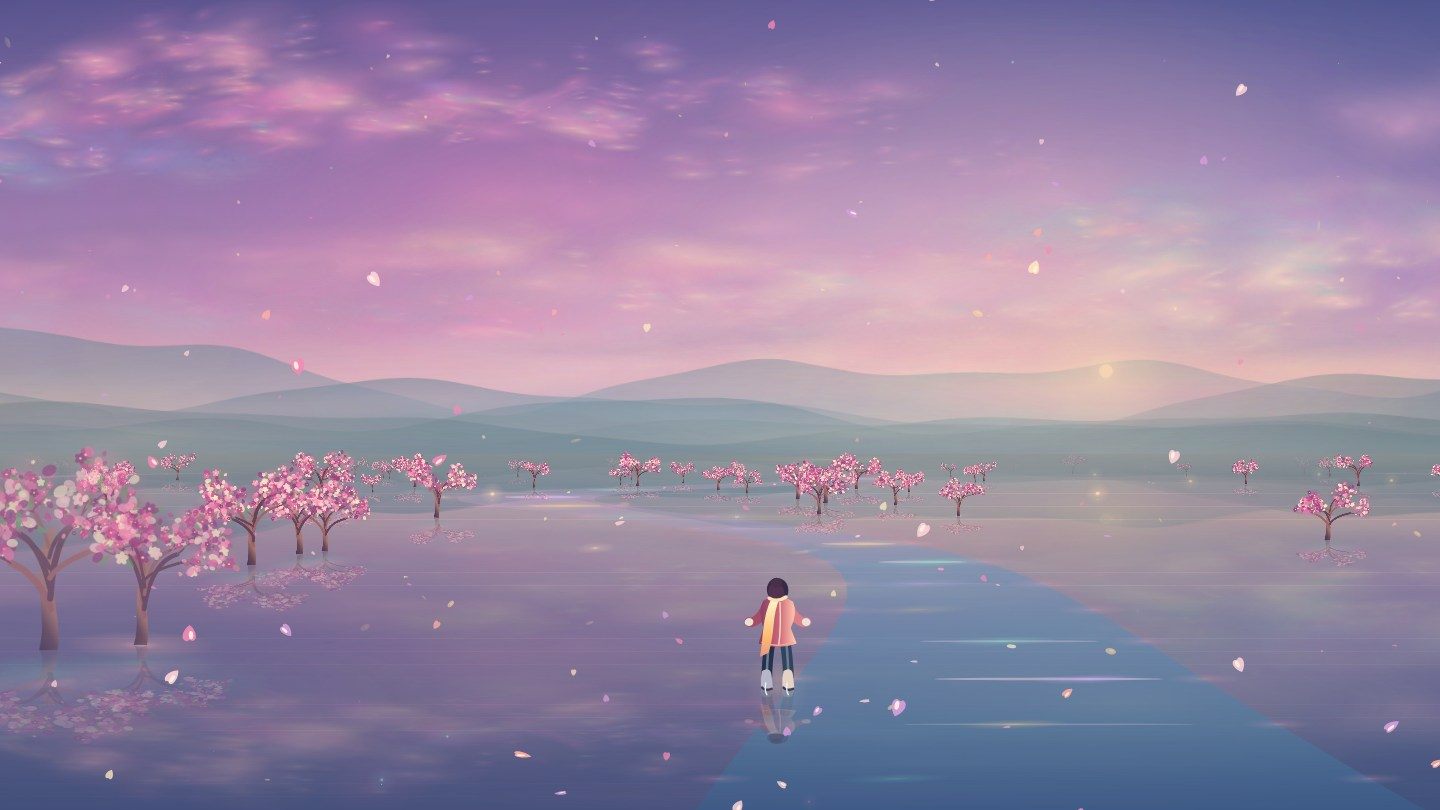
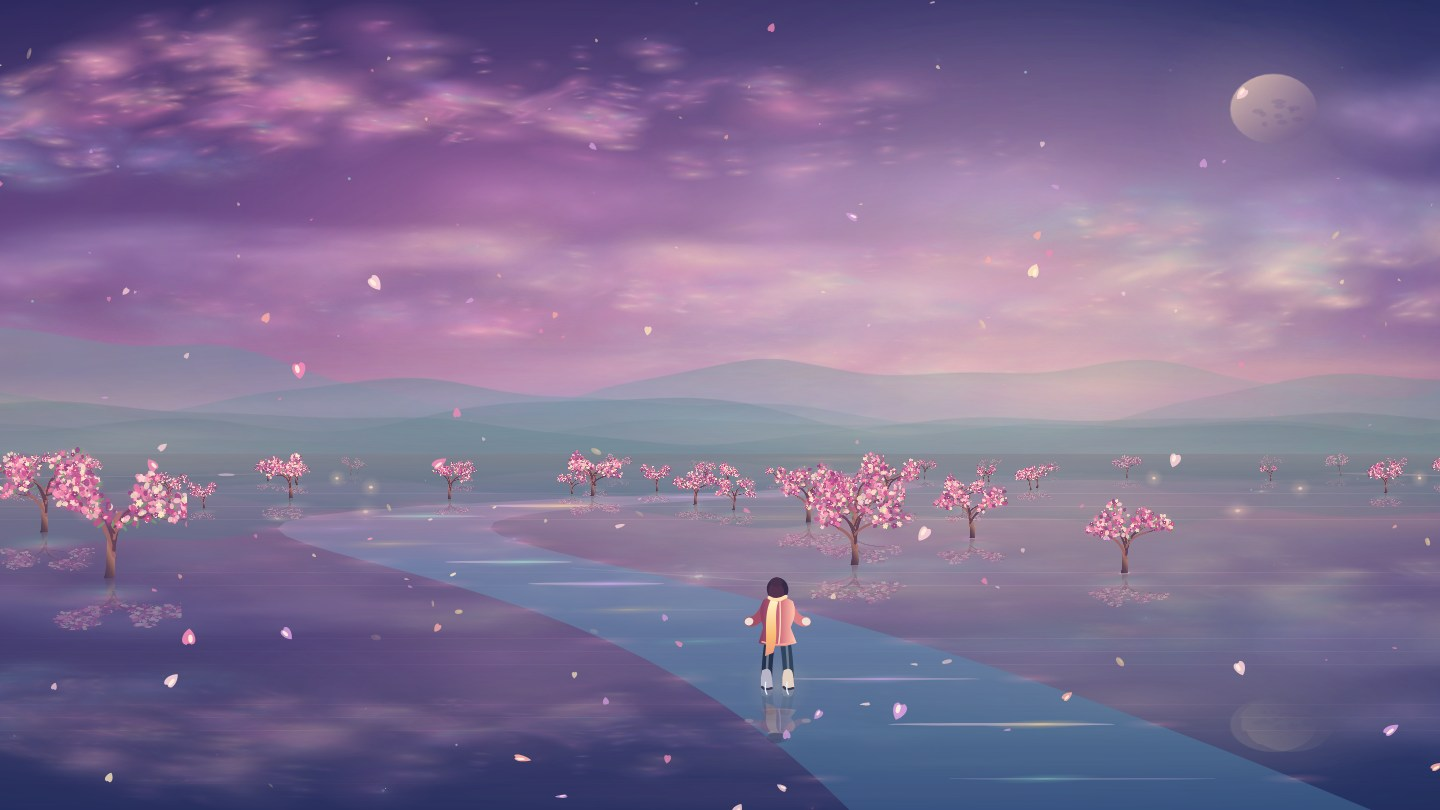
Add Red Cliff, Li Bai night feast and Book of Songs verses

diff --git a/index.html b/index.html
@@ -172,6 +172,7 @@ body.clean:not(.playing) .hud .intro{visibility:visible}
       <button class="chip" type="button" data-word="桃源深处">桃源深处</button>
       <button class="chip" type="button" data-word="归园田居">归园田居</button>
       <button class="chip" type="button" data-word="不系之舟">不系之舟</button>
+      <button class="chip" type="button" data-word="赤壁赋">赤壁赋</button>
       <button class="chip" type="button" data-word="晚霞">晚霞</button>
       <button class="chip" type="button" data-word="极光">极光</button>
       <button class="chip" type="button" data-word="花海">花海</button>
@@ -250,6 +251,10 @@ function dreamFor(word) {
   const base = palettes[i];
   return {...base,index:i,seed:n%4096+1,word, name:["晚霞","极光","花海","星雨"].includes(word)?base.name:word, whale:/鲸|whale/i.test(word)};
 }
+const peachFeastSource="李白《春夜宴从弟桃花园序》";
+const redCliffSource="苏轼《前赤壁赋》";
+const peachNight={weather:"春夜 · 花月",sky:[30,35,86],mid:[92,69,129],
+  line:[185,125,157],cloud:[202,151,198],water:[30,49,93],light:[255,215,185],peachNight:true};
 const chapters = [
   {at:0, name:"海棠渡", icon:"✿", weather:"晨光 · 花瓣", index:0, seed:45,
     lines:[
@@ -262,6 +267,7 @@ const chapters = [
     lines:[
       [0,"起雾了。看不清远处，\n就先看看脚边这点光。"],
       [105,"白鸟贴着雾飞。\n翅尖一低，冰里便亮了一小片。"],
+      [180,"蒹葭苍苍，白露为霜。\n所谓伊人，在水一方。","《诗经·秦风·蒹葭》",null,"reeds"],
       [255,"气蒸云梦泽，\n波撼岳阳城。","孟浩然《望洞庭湖赠张丞相》"],
       [410,"鸟向远处飞去。\n雾的另一边，有什么缓缓吐出一口气。"],
       [540,"冰下，有影。"]
@@ -319,11 +325,20 @@ const chapters = [
     lines:[
       [24,"转过山脚，溪上漂来一瓣桃花。"],
       [190,"忽逢桃花林，\n夹岸数百步。","陶渊明《桃花源记》"],
+      [270,"桃之夭夭，\n灼灼其华。","《诗经·周南·桃夭》",null,"peach-ode"],
       [360,"花影落进溪里，水把它轻轻带远了。"],
       [530,"如果今天可以在这里坐一会儿，\n你会选哪棵树？"],
-      [714,"芳草鲜美，\n落英缤纷。","陶渊明《桃花源记》","petalShower"]
+      [714,"芳草鲜美，\n落英缤纷。","陶渊明《桃花源记》","petalShower"],
+      [850,"夫天地者，万物之逆旅也；\n光阴者，百代之过客也。",peachFeastSource,"peachNight","feast-1"],
+      [965,"而浮生若梦，为欢几何？\n古人秉烛夜游，良有以也。",peachFeastSource,null,"feast-2"],
+      [1080,"况阳春召我以烟景，\n大块假我以文章。",peachFeastSource,null,"feast-3"],
+      [1195,"会桃花之芳园，\n序天伦之乐事。",peachFeastSource,null,"feast-4"],
+      [1310,"群季俊秀，皆为惠连；\n吾人咏歌，独惭康乐。",peachFeastSource,null,"feast-5"],
+      [1425,"幽赏未已，\n高谈转清。",peachFeastSource,null,"feast-6"],
+      [1540,"开琼筵以坐花，\n飞羽觞而醉月。",peachFeastSource,"petalShower","feast-7"],
+      [1655,"不有佳咏，何伸雅怀？\n如诗不成，罚依金谷酒数。",peachFeastSource,null,"feast-8"]
     ]},
-  {at:6080,name:"归园田居",icon:"❧",weather:"田风 · 炊烟",index:0,seed:1261,painting:8,farmland:true,
+  {at:7040,name:"归园田居",icon:"❧",weather:"田风 · 炊烟",index:0,seed:1261,painting:8,farmland:true,
     sky:[93,135,166],mid:[182,191,169],line:[255,215,151],cloud:[246,218,170],shadow:[112,139,159],hills:[108,149,117],water:[49,81,77],light:[255,229,167],
     lines:[
       [25,"沿着溪边再走一程，\n便看见了田和几户人家。"],
@@ -331,9 +346,10 @@ const chapters = [
       [322,"种豆南山下，\n草盛豆苗稀。","陶渊明《归园田居·其三》"],
       [491,"风从豆畦吹来。\n今天，想在什么地方坐到天晚？"],
       [700,"采菊东篱下，\n悠然见南山。","陶渊明《饮酒·其五》"],
+      [774,"昔我往矣，杨柳依依。\n今我来思，雨雪霏霏。","《诗经·小雅·采薇》",null,"returning"],
       [848,"屋顶的烟慢慢淡了，山还在原处。"]
     ]},
-  {at:7100,name:"不系之舟",icon:"☾",weather:"夜江 · 孤灯",index:3,seed:1559,painting:9,river:true,
+  {at:8060,name:"不系之舟",icon:"☾",weather:"夜江 · 孤灯",index:3,seed:1559,painting:9,river:true,
     sky:[22,30,66],mid:[63,73,118],line:[140,119,153],cloud:[158,154,193],shadow:[48,56,104],hills:[49,64,104],water:[24,39,71],light:[218,214,242],
     lines:[
       [25,"黄州。夜深了，岸上只剩一盏灯。"],
@@ -344,6 +360,16 @@ const chapters = [
       [700,"儋州。海风比江风更咸，\n远处那盏灯，摇得快要看不见。"],
       [880,"人生如逆旅，\n我亦是行人。","苏轼《临江仙·送钱穆父》"],
       [1065,"天快亮了。那条船还在远处，\n与你隔着一片安静的水。"]
+    ]},
+  {at:9260,name:"赤壁赋",icon:"☾",weather:"清风 · 明月",index:3,seed:1783,painting:10,river:true,redCliff:true,
+    sky:[16,36,62],mid:[48,102,121],line:[153,186,175],cloud:[181,213,205],shadow:[45,75,112],hills:[53,93,104],water:[19,55,77],light:[224,239,211],
+    lines:[
+      [25,"清风徐来，\n水波不兴。",redCliffSource],
+      [165,"白露横江，\n水光接天。",redCliffSource],
+      [315,"惟江上之清风，\n与山间之明月。",redCliffSource],
+      [470,"耳得之而为声，\n目遇之而成色。",redCliffSource],
+      [630,"取之无禁，\n用之不竭。",redCliffSource],
+      [800,"是造物者之无尽藏也，\n而吾与子之所共适。",redCliffSource]
     ]}
 ];
 const original = {...palettes[0],...chapters[0],word:"",whale:false};
@@ -356,6 +382,7 @@ const jadeChapter=chapters.findIndex(chapter=>chapter.jade);
 const groveChapter=chapters.findIndex(chapter=>chapter.grove);
 const farmChapter=chapters.findIndex(chapter=>chapter.farmland);
 const riverChapter=chapters.findIndex(chapter=>chapter.river);
+const redCliffChapter=chapters.findIndex(chapter=>chapter.redCliff);
 const flightVerse=chapters[cloudChapter].lines.findIndex(line=>line[3]==="flight");
 const journal = new Map();
 const snapshots = [];
@@ -422,8 +449,10 @@ function trimJournalPhotos() {
 }
 const viewingDialog = () => ["dreamDialog","helpDialog","journalDialog"].some(id=>$(id).open);
 function storyLine(chapter, lineIndex) {
-  const [,text,source,gesture]=chapter.lines[lineIndex];
-  const key = chapter.name+"-"+lineIndex;
+  const [,text,source,gesture,id]=chapter.lines[lineIndex];
+  // New cues use explicit IDs so older entries retain their stored keys.
+  const originalIndex=chapter.lines.slice(0,lineIndex).filter(line=>!line[4]).length;
+  const key=chapter.name+"-"+(id??originalIndex);
   if (!journal.has(key)) {
     const entry = {name:chapter.name,text,source};
     journal.set(key, entry);
@@ -440,6 +469,7 @@ function storyLine(chapter, lineIndex) {
   $("story").classList.add("show");
   if(gesture==="wave") waveUntil=t+2.8;
   if(gesture==="petalShower") petalShowerAt=storyTime;
+  if(gesture==="peachNight")changeDream({...current,...peachNight});
   if(gesture==="flight"){
     clearTimeout(whisperTimer);
     $("whisper").classList.remove("show");
@@ -482,6 +512,9 @@ let dreamTheme=null; // the dream the player picked; null while the story sets t
 const colorKeys=["sky","mid","line","cloud","shadow","hills","water","light"];
 function sceneForChapter(chapter) {
   const scene={...palettes[chapter.index],...chapter,word:"",whale:false};
+  if(chapter.grove&&chapterIndex===groveChapter&&chapter.lines.slice(0,nextLine).some(line=>line[3]==="peachNight")){
+    Object.assign(scene,peachNight);
+  }
   if(!dreamTheme) return scene;
   for(const key of colorKeys) scene[key]=blend(scene[key],dreamTheme[key],.62);
   scene.name=dreamTheme.name;scene.icon=dreamTheme.icon;scene.weather=dreamTheme.weather;
@@ -580,6 +613,11 @@ function setWord(word){
   $("dreamDialog").close();
   play();
   const phrase=word.trim();
+  if(/赤壁|水光接天|无尽藏/.test(phrase)){
+    dreamTheme=null;
+    enterChapter(redCliffChapter,true);
+    return;
+  }
   if(/不系|苏轼|东坡|黄州|惠州|儋州|逆旅/.test(phrase)){
     dreamTheme=null;
     enterChapter(riverChapter,true);
@@ -756,6 +794,7 @@ function paintSky(p) {
     if(p.forest) paintForestHorizon(c,w,h,p);
     if(p.jade) paintJadeValley(c,w,h,p);
     if(p.farmland) paintFarmHorizon(c,w,h,p);
+    if(p.redCliff) paintRedCliffBank(c,w,h,p);
     for(let i=0;i<10;i++){
       const x=w*hash(i+320+p.seed), y=h*(.81+hash(i+621)*.20), r=w*(.12+hash(i+312)*.21);
       c.save();c.translate(x,y);c.scale(1,.10+hash(i+901)*.14);
@@ -764,6 +803,31 @@ function paintSky(p) {
   }
   paintAtmosphere(c,w,h,sceneAtmosphere(p));
   return b;
+}
+function paintRedCliffBank(c,w,h,p){
+  const span=w*.59;
+  for(let layer=0;layer<2;layer++){
+    const base=h*(.94+layer*.055), height=h*(.44-layer*.06);
+    c.beginPath();c.moveTo(0,h);c.lineTo(0,base-height*.79);
+    for(let i=0;i<=44;i++){
+      const u=i/44;
+      const relief=(1-u)**.79*(.77+.095*Math.sin(u*24+layer)+.048*Math.sin(u*71));
+      c.lineTo(span*u*(1-layer*.18),base-height*relief);
+    }
+    c.lineTo(span,h);c.closePath();
+    const rock=c.createLinearGradient(0,base-height,0,base);
+    rock.addColorStop(0,"#65516b");rock.addColorStop(.46,"#826573");
+    rock.addColorStop(1,rgba(p.hills,.84));
+    c.fillStyle=rock;c.fill();c.save();c.clip();
+    for(let i=0;i<75;i++){
+      const key=p.seed+i*59+layer*97;
+      const x=hash(key)*span, y=base-hash(key+7)*height;
+      const color=i%3===0?[187,135,124]:[53,62,86];
+      pigmentGlow(c,x,y,Math.min(w,h)*(.017+hash(key+13)*.073),.14,-.47,color,.17+hash(key+3)*.27);
+    }
+    c.restore();
+    pigmentGlow(c,span*.56,base,w*.46,.085,0,p.cloud,.29);
+  }
 }
 const pigments = [
   [[252,151,182],[255,209,145],[114,144,224],[184,118,216],[100,200,214],[255,235,188]],
@@ -775,7 +839,8 @@ const pigments = [
   [[117,222,189],[255,182,139],[93,155,201],[192,163,206],[113,206,207],[255,232,168]],
   [[253,132,177],[255,180,171],[134,141,218],[218,119,186],[114,198,188],[255,223,192]],
   [[179,198,124],[246,194,119],[119,163,175],[215,154,143],[143,185,126],[255,229,159]],
-  [[109,135,191],[164,159,208],[79,131,160],[192,129,157],[116,173,182],[242,178,117]]
+  [[109,135,191],[164,159,208],[79,131,160],[192,129,157],[116,173,182],[242,178,117]],
+  [[106,170,182],[175,211,201],[96,134,166],[168,139,164],[121,195,178],[235,224,178]]
 ];
 const skyLighting = [
   null,
@@ -787,7 +852,8 @@ const skyLighting = [
   {point:[.62,.72], veil:[.33,.40], tilt:-.21},
   {point:[.59,.67], veil:[.36,.40], tilt:-.16},
   {point:[.73,.69], veil:[.32,.44], tilt:-.12},
-  {point:[.74,.33], veil:[.42,.52], tilt:-.10}
+  {point:[.74,.33], veil:[.42,.52], tilt:-.10},
+  {point:[.75,.36], veil:[.38,.61], tilt:-.06}
 ];
 const atmospheres = [
   {focus:[.29,.66], tones:[[255,190,161],[226,152,208],[137,182,240]], veil:.32, drift:"petal"},
@@ -799,7 +865,8 @@ const atmospheres = [
   {focus:[.66,.55], tones:[[255,230,173],[137,218,184],[225,171,190]], veil:.48, drift:"glint"},
   {focus:[.57,.66], tones:[[255,215,154],[244,135,190],[154,199,213]], veil:.49, drift:"petal"},
   {focus:[.73,.64], tones:[[255,220,154],[162,202,138],[156,191,203]], veil:.38, drift:"glint"},
-  {focus:[.76,.30], tones:[[196,196,234],[122,158,191],[172,129,169]], veil:.47, drift:"mist"}
+  {focus:[.76,.30], tones:[[196,196,234],[122,158,191],[172,129,169]], veil:.47, drift:"mist"},
+  {focus:[.76,.35], tones:[[221,235,208],[109,193,184],[156,176,211]], veil:.56, drift:"mist"}
 ];
 function sceneAtmosphere(scene){
   return atmospheres[scene.painting ?? [0,2,3,4][scene.index]];
@@ -993,7 +1060,7 @@ function drawSky(light) {
   const oldTones=sceneAtmosphere(previous).tones, newTones=sceneAtmosphere(current).tones;
   const tint=blend(blend(oldTones[0],oldTones[2],skyTone),blend(newTones[0],newTones[2],skyTone),smooth(transition));
   pigmentGlow(sk,sw*(.52+.16*Math.sin(airMass*.64)),sh*.47,sw*.63,.41,-.18,tint,.17);
-  if(!current.forest&&((current.index===0 && !art.naturalWidth) || current.index===2)){
+  if(!current.forest&&!current.peachNight&&((current.index===0 && !art.naturalWidth) || current.index===2)){
     bloom(sk,lx,ly,sh*.15,light,.53*transition);
     ellipse(sk,lx,ly,sh*.015,sh*.015,rgba(light,.58*transition));
   }
@@ -1187,7 +1254,7 @@ function skyDetail(c,w,h,p){
     }
 
   }
-  if(cold&&!p.jade){
+  if((cold&&!p.jade)||p.peachNight){
     const mx=w*.81,my=h*.24,r=h*.077;
     bloom(c,mx,my,r*2.9,p.light,.27);
     const moon=c.createLinearGradient(mx-r,my-r,mx+r,my+r);
@@ -1433,7 +1500,9 @@ function drawRouteScenery(light,water,world){
   if(jade>0) drawJadeBanks(jade,world);
   if(grove>0) drawPeachGrove(grove,world);
   if(farm>0) drawFarmland(farm,world);
-  if(river>0) drawRiver(river,world);
+  const cliff=lerp(Number(Boolean(previous.redCliff)),Number(Boolean(current.redCliff)),mix);
+  if(river>cliff) drawRiver(river-cliff,world);
+  if(cliff>0) drawRedCliff(cliff,world);
   if(forest+jade+grove+farm+river>=1) return;
   ctx.save();ctx.globalAlpha=1-forest-jade-grove-farm-river;
   const shadow=routeMode?smooth((travel-665)/265)*(1-smooth((travel-980)/440)):0;
@@ -1444,8 +1513,18 @@ function drawRouteScenery(light,water,world){
   }
   const cloudSea=routeMode?smooth((travel-1430)/520)*(1-smooth((travel-2310)/600)):0;
   const petals=routeMode?1-smooth((travel-280)/530):.42;
+  const reedBank=routeMode?smooth((travel-448)/96)*(1-smooth((travel-840)/230)):0;
   for(const {object:{kind:i,seed:key},depth:z,point:p} of world){
     const s=p.scale, alpha=smooth((z-63)/65)*smooth((1240-z)/490);
+    if(reedBank>0&&i===5){
+      for(let stem=0;stem<5;stem++){
+        const x=p.x+(hash(key+stem*7)-.5)*31*s, height=(17+hash(key+stem*3+17)*49)*s;
+        const bend=(reduced?3:5+Math.sin(t*.87+key+stem)*4)*s;
+        ctx.beginPath();ctx.moveTo(x,p.y);ctx.quadraticCurveTo(x,p.y-height*.63,x+bend,p.y-height);
+        ctx.lineWidth=Math.max(.6,s*1.7);ctx.strokeStyle=rgba([99,134,133],reedBank*alpha*.79);ctx.stroke();
+        ellipse(ctx,x+bend,p.y-height,2.6*s,7.2*s,rgba([219,209,194],reedBank*alpha*.89),.26);
+      }
+    }
     if(i<2){
       const width=(49+hash(key+7)*133)*s, tall=(29+hash(key+9)*97)*s;
       ctx.save();ctx.translate(p.x,p.y);ctx.globalAlpha*=alpha*(1-cloudSea*.88);
@@ -1471,6 +1550,30 @@ function drawRouteScenery(light,water,world){
     }
   }
   ctx.restore();
+}
+function drawRedCliff(opacity,world){
+  const moonlight=[222,239,215];
+  const clock=reduced?0:t;
+  for(let i=0;i<36;i++){
+    const u=(i+.5)/36, y=horizon+(H-horizon)*u;
+    const x=W*(.81+Math.sin(clock*.58+i*.68)*(.007+u*.043));
+    pigmentGlow(ctx,x,y,W*(.012+u*.091),.10,0,moonlight,opacity*(.23-u*.095));
+  }
+  for(const {object:{kind,seed,x},depth:z,point:p} of world){
+    if(kind!==0||Math.abs(x-lateral*.61)<65)continue;
+    const alpha=opacity*smooth((z-63)/100)*smooth((1240-z)/620);
+    const width=(42+hash(seed+27)*99)*p.scale, height=(27+hash(seed+31)*105)*p.scale;
+    if(p.x+width<0||p.x-width>W)continue;
+    const rock=ctx.createLinearGradient(p.x,p.y-height,p.x,p.y);
+    rock.addColorStop(0,rgba([156,124,123],alpha*.80));
+    rock.addColorStop(.52,rgba([106,87,106],alpha*.88));
+    rock.addColorStop(1,rgba([37,63,86],alpha*.84));
+    ctx.fillStyle=rock;ctx.beginPath();ctx.moveTo(p.x-width,p.y);
+    ctx.lineTo(p.x-width*.63,p.y-height*.47);ctx.lineTo(p.x-width*.44,p.y-height*.89);
+    ctx.lineTo(p.x+width*.04,p.y-height);ctx.lineTo(p.x+width*.32,p.y-height*.72);
+    ctx.lineTo(p.x+width,p.y);ctx.closePath();ctx.fill();
+    pigmentGlow(ctx,p.x,p.y+height*.16,width,.16,0,[156,128,135],alpha*.31);
+  }
 }
 const riverLamp=[255,188,114];
 function riverBoat(x,y,size,opacity,lantern,reflection=false,bearing=0){
@@ -2293,7 +2396,8 @@ const scores = [
   {chord:[50,57,64,69], melody:[74,76,null,81,null,78,76,74,null,69], beat:1.65, wind:510, voice:"sine"},
   {chord:[53,60,67,69], melody:[72,77,null,81,79,null,77,74,null,72], beat:1.57, wind:620, voice:"sine"},
   {chord:[48,55,64,69], melody:[67,72,null,76,74,null,72,69,67,null], beat:1.79, wind:460, voice:"triangle"},
-  {chord:[43,50,58,62], melody:[67,null,null,74,null,70,null,null,65,null], beat:2.24, wind:350, voice:"sine"}
+  {chord:[43,50,58,62], melody:[67,null,null,74,null,70,null,null,65,null], beat:2.24, wind:350, voice:"sine"},
+  {chord:[45,52,57,64], melody:[69,null,76,null,74,72,null,67,null,69], beat:2.07, wind:400, voice:"sine"}
 ];
 const frequencyFor = midi => 440*Math.pow(2,(midi-69)/12);
 function scoreFor(scene){

diff --git a/README.md b/README.md
@@ -2,13 +2,13 @@
 
 一朵海棠逆着风，在你的冰刀前打了个旋。你跟着它滑进海雾，隔着冰看见一条比岛还长的影子。
 
-这段有诗词相伴的航程约十二分钟，之后还可以继续漫游。点「踏上冰面」，人物会缓缓向地平线滑去。你可以自己转向、加速，也可以随时停下来，看一会儿云。
+这段有诗词相伴的航程约十五分钟，之后还可以继续漫游。点「踏上冰面」，人物会缓缓向地平线滑去。你可以自己转向、加速，也可以随时停下来，看一会儿云。
 
 **[打开在线版](https://aubreykuang.github.io/Dreamer/)** · 离线游玩时，下载本仓库的 `index.html`，用浏览器打开即可。
 
 ![海棠渡的粉金晨光和冰上倒影](reverie-begonia.jpg)
 
-## 十段航程
+## 十一段航程
 
 | 场景 | 沿途风景 | 诗句与旁白 |
 | --- | --- | --- |
@@ -22,6 +22,7 @@
 | 桃源深处 | 青黛远山下，桃花簇拥溪岸。读到「落英缤纷」时，花瓣从天上成片飘落。 | 芳草鲜美，落英缤纷。 |
 | 归园田居 | 南山脚下有豆畦、浅水渠和几户炊烟，黄花点在田埂旁。 | 种豆南山下，草盛豆苗稀。采菊东篱下，悠然见南山。 |
 | 不系之舟 | 月夜乘舟，循黄州、惠州、儋州的意象远行，偶尔与另一盏船灯擦肩。 | 人生如逆旅，我亦是行人。 |
+| 赤壁赋 | 小舟驶过赤褐色的崖岸，明月在青碧江面上铺开碎银。 | 取之无禁，用之不竭。 |
 
 「不系之舟」里，两盏船灯擦肩过后，会读到这句旁白。
 
@@ -46,6 +47,10 @@
 
 ![月下的两艘小舟，各自亮着一盏灯](reverie-river.jpg)
 
+![赤壁月夜，明月映在青碧江面上](reverie-red-cliff.jpg)
+
+「桃源深处」在花雨过后转入春夜，李白《春夜宴从弟桃花园序》全文分幕浮现。读到「开琼筵以坐花，飞羽觞而醉月」，月下再落一阵花雨。《诗经》的《蒹葭》《桃夭》《采薇》分别出现在海雾深处、桃源深处和归园田居。
+
 [查看「蓝田日暖」手机竖屏画面](reverie-jade-mobile.jpg)
 
 换景时，远处的云色、近处的薄雾和冰上的倒影会一起慢慢过渡。冰上能看见掠过的碎光，星原的星尘斜铺过夜空，林间的萤光聚在树影与暖灯之间。
@@ -64,7 +69,7 @@
 
 ## 冰面上的小问候
 
-55 段旁白随滑行展开，古诗词、短叙事和小问题穿插出现。每段停留约 8–15 秒，留一会儿空白才翻到下一句。靠近冰面光点时，还可能遇到 24 句轮流出现的短问候，每句约停留 6 秒。
+72 段旁白随滑行展开，古诗词、短叙事和小问题穿插出现。每段停留约 8–15 秒，留一会儿空白才翻到下一句。靠近冰面光点时，还可能遇到 24 句轮流出现的短问候，每句约停留 6 秒。
 
 - 「今天，有哪一刻让你松了口气？」
 - 「有些烦恼像风，拂过就好，不必把它留在心里。」
@@ -84,13 +89,13 @@
 | 隐藏或恢复界面 | H | 点右上角观景按钮 |
 | 留影 | P | 点「留影」，下载 PNG 并收进手记 |
 
-在「换一个梦」输入「海棠」「北冥」「云海」「灯火葳蕤」「蓝田日暖」「桃源深处」「归园田居」或「不系之舟」，可以跳到对应航段。输入「鲸鱼」「月亮」「极光」「花海」可自由漫游。想接着读剧情，就选「回到航程」。
+在「换一个梦」输入「海棠」「北冥」「云海」「灯火葳蕤」「蓝田日暖」「桃源深处」「归园田居」「不系之舟」或「赤壁赋」，可以跳到对应航段。输入「鲸鱼」「月亮」「极光」「花海」可自由漫游。想接着读剧情，就选「回到航程」。
 
 ## 无边冰原
 
 按住 ← / →（或 A / D）可以一直向同一侧滑。手机上，向一侧拖动后保持按住，松手就会平缓回正。冰纹、光点、树与灯的位置随地图延伸，横滑时近景会比远山移动得更快。
 
-读完「不系之舟」的最后一句后，依然可以一直向前或向两侧探索。滑行一段距离后，天光、地貌和配乐会渐渐变换，已读过的诗句仍可在手记里回看。
+读完「赤壁赋」的最后一句后，依然可以一直向前或向两侧探索。滑行一段距离后，天光、地貌和配乐会渐渐变换，已读过的诗句仍可在手记里回看。
 
 ## 配乐与冰面音效
 
@@ -108,4 +113,4 @@
 | --- | --- |
 | `index.html` | 游戏入口、航程脚本、绘制与音频。 |
 | `README.md` | 航程、诗词、玩法和操作说明。 |
-| `reverie-*.jpg` | 十个场景、扶摇飞行和手机竖屏的实机渲染画面。 |
+| `reverie-*.jpg` | 十一个场景、扶摇飞行和手机竖屏的实机渲染画面。 |
